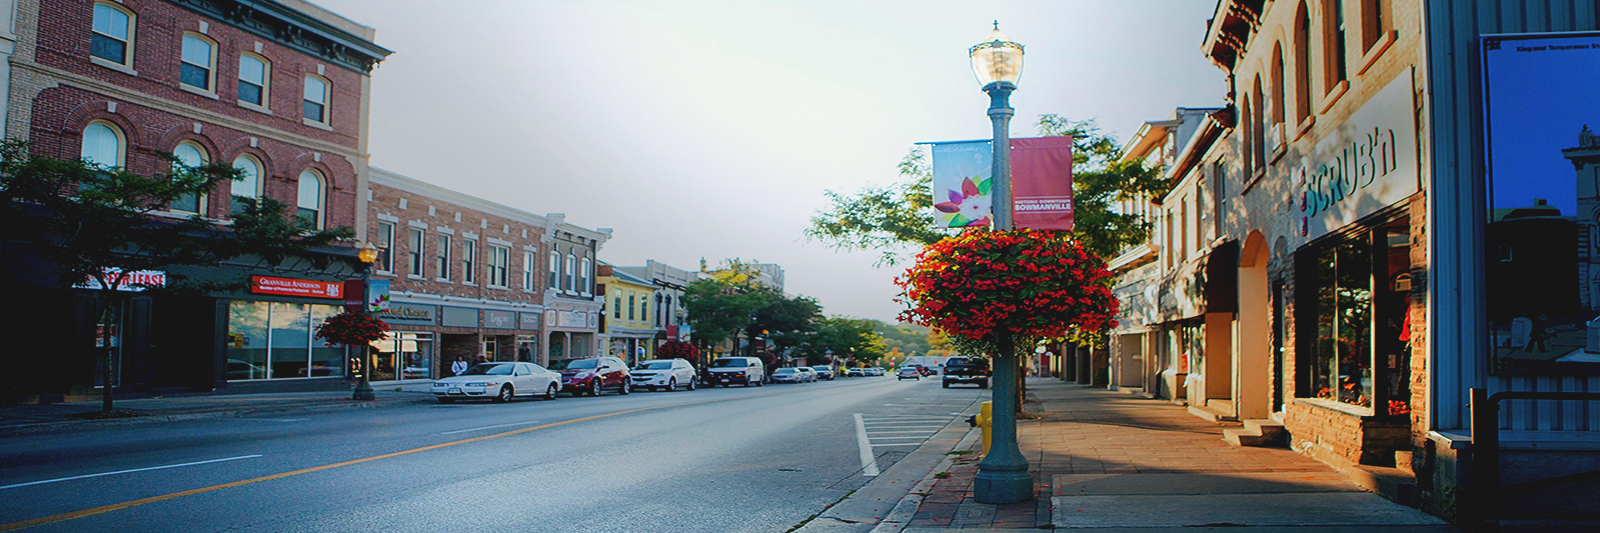
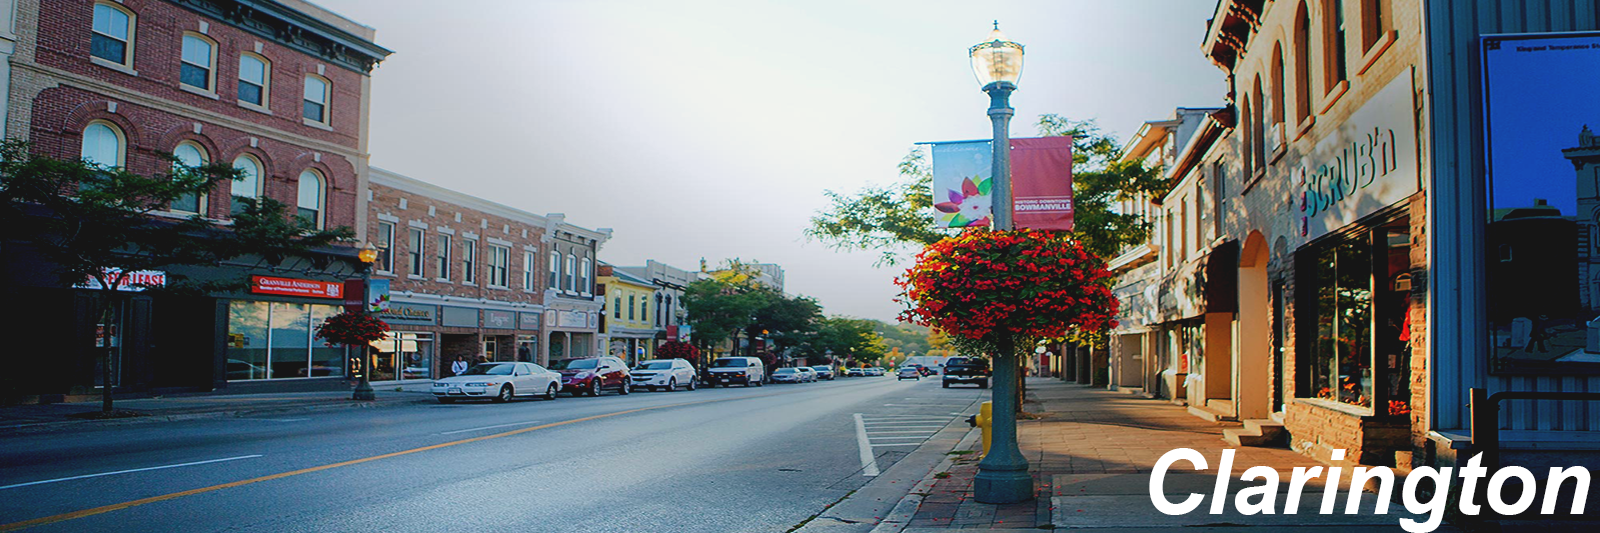
Some Grammatical Fixes

Changed region(s): [[0.7188, 0.8405, 1.0, 1.0]]

diff --git a/p2408/webapp.html b/p2408/webapp.html
@@ -117,7 +117,7 @@
 										confusions when trying to pinpoint where exactly an incident is occuring at a given time. 
 									</p>
 									<p>
-										Esri's Experience Builder widgets cannot be customized beyong the pre set functionality range. This means they cannot be made to do
+										Esri's Experience Builder widgets cannot be customized beyond the pre set functionality range. This means they cannot be made to do
 										more than intended by Esri. This limitation acts as a rein during development. For example, it would have been better to have the buffer
 										tool be moveable after it's been drawn on the map. However, this feature is not available in Experience Builder, and cannot customized to
 										make it do so.  

diff --git a/p2408/project.html b/p2408/project.html
@@ -39,7 +39,7 @@
 
 						<!-- Content -->
 							<article class="box post">
-								<a href="#" class="image featured"><img src="images/pic15.jpg" alt=""></a>
+								<a href="#" class="image featured"><img src="images/projectBanner.jpg" alt="Team Clarington"></a>
 								<header>
 									<h2>Project Overview</h2>
 									<!-- <p>Web Based Offline mapping?</p> -->
